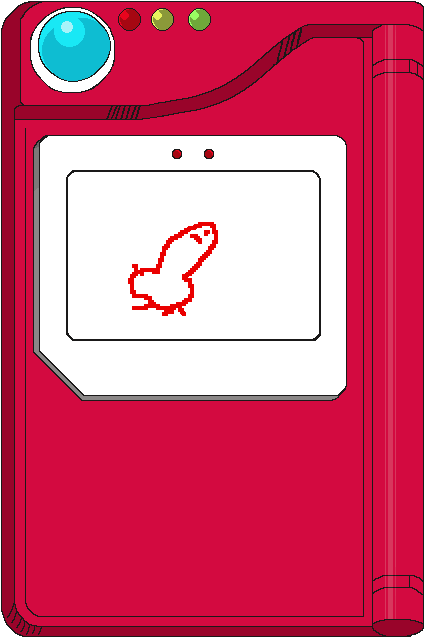
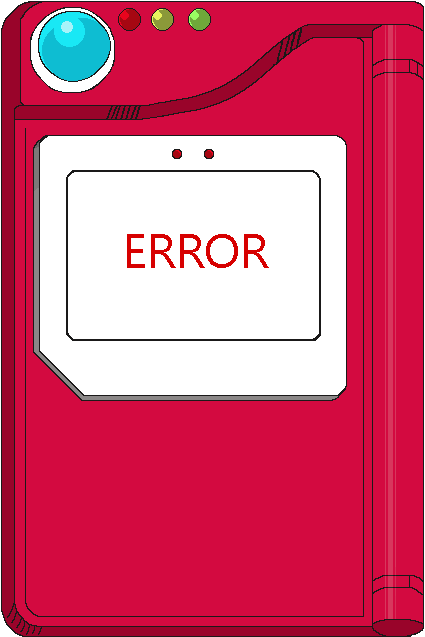
Começando a fazer tela de Informações do pokémon

Changed region(s): [[0.2753, 0.3281, 0.6424, 0.5071]]

diff --git a/js/script.js b/js/script.js
@@ -3,7 +3,7 @@ const pokemonNumber = document.querySelector('.pokemon__number');
 const pokemonImage = document.querySelector('.pokemon__image');
 const pokemonType = document.querySelector('.pokemon__type');
 const pokedex = document.querySelector('#pokedex');
-
+const pokedexInfo = document.querySelector('#pokedexInfo');
 
 
 const form = document.querySelector('.form');
@@ -14,14 +14,16 @@ const input = document.querySelector('.input__search');
 const buttonShiny = document.querySelector('#up');
 const buttonPrev = document.querySelector('#left');
 const buttonNext = document.querySelector('#right');
+const buttonInfo = document.querySelector('#down');
 const typeContainer = document.querySelector('#types');
 
 buttonShiny.addEventListener('click', buttonShiny); 
 
 
-
 let Shiny = 'front_default';
 let searchPokemon = 1;
+
+pokedexInfo.style.display = 'none';
 
 
 const fetchPokemon = async (pokemon) => {
@@ -48,6 +50,8 @@ const renderPokemon = async (pokemon) => {
     pokemonNumber.textContent = data.id;
     pokemonImage.src = data['sprites']['versions']['generation-v']['black-white']['animated'][Shiny];
     typeContainer.innerHTML = '';
+    input.value = '';
+
     data['types'].forEach((item, index) => {
       tipo = item['type']['name'];        
       let imageUrls = {
@@ -74,31 +78,35 @@ const renderPokemon = async (pokemon) => {
       img = document.createElement('img');
       img.classList.add('type_image');
       img.src = imageUrl;
+      
       typeContainer.appendChild(img);
 
     });
     
     
     searchPokemon = data.id;
-    document.getElementById("buttonShiny").disabled = false;  
+    document.getElementById('#up').disabled = false;  
     
   } else {
-    pokedex.src = "./images/pokedexERROR.png";
+    pokedex.src = "./images/pokedexError.png";
     pokemonImage.style.display = 'none';
     pokemonName.textContent = 'Not found';
     pokemonNumber.textContent = '';
+    pokedexInfo.style.display = 'none';
+
+    input.value = '';
     typeContainer.innerHTML = ''
-
-
-
+    
+    
+    
     
     var audio = new Audio("mixkit-metal-hammer-hit-833.wav");
     audio.play();
     audio.volume = 0.2;
-    searchPokemon = 0; 
-    document.getElementById("buttonShiny").disabled = true; 
     
   }
+  searchPokemon = 0; 
+  document.getElementById('#up').disabled = true; 
   input.value = '';
   
   
@@ -110,11 +118,6 @@ form.addEventListener('submit', (event) => {
 });
 
 renderPokemon(searchPokemon);
-
-
-
-
-
 
 buttonPrev.onclick = function() {
   var audio = new Audio("mixkit-mouse-click-close-1113.wav");
@@ -141,6 +144,16 @@ buttonShiny.onclick = function() {
   Shiny='front_default'
   } else{Shiny='front_shiny'}
   renderPokemon(searchPokemon);
+  
   }
 
-
+  buttonInfo.onclick = function() {
+    pokedexInfo.src = "./images/pokedexInfo.gif";
+    if (pokedexInfo.style.display == 'none'){
+    pokedexInfo.src = "./images/pokedexInfo.gif";  
+    pokedexInfo.style.display = 'inherit';
+    } else{
+    pokedexInfo.src = "./images/pokedexInfoReverso.gif";
+    setTimeout (function(){pokedexInfo.style.display = 'none';}, 700); 
+    }
+  }

diff --git a/css/style.css b/css/style.css
@@ -10,23 +10,18 @@
 
 body {
     text-align: center;
-    background: linear-gradient(to bottom, #c04cae,#fff);
-    min-height: 100vh;
+    background: linear-gradient(to bottom, #115b83,#fff);
+    min-height: 90%;
+    background-repeat: no-repeat;
 }
 
 
 main {
     display: inline-block;
     margin-top: 2%;
-    padding: 15px;
     position: relative;
 }
 
-.pokedex {
-    width: 100%;
-    max-width: 425;
-
-}
 
 .pokemon__image {
     position: absolute;
@@ -36,9 +31,25 @@ main {
     width: 50%;
     height: 17%;
     object-fit: contain;
-
+    
+}
+.pokedex {
+    width: 100%;
+    max-width: 425;
+    margin: 0;
+    padding: 0;
+    
 }
 
+.pokedexInfo {
+    width: 90%;
+    padding: 0;
+    margin: 0;
+    position: absolute;
+    left: 99%;
+    bottom:7%;
+    object-fit: contain;
+}
 .pokemon__data {
     position: absolute;
     font-weight: 600;
@@ -140,11 +151,9 @@ main {
     width: 22%;
     height: 65%;
     transform: translate(3%, 0);
-    display: flex;
     display: flex; 
     object-position: 5% 5%
 }
-
 .set {
     overflow: hidden;
     padding: 10px;
@@ -184,7 +193,6 @@ main {
     transition: all 0.25s;
     cursor: pointer;
   }
-
   .d-pad a {
     position: absolute;
     width: 36.3%;

diff --git a/index.html b/index.html
@@ -57,12 +57,16 @@
 
       
     </div>
-
+    
+    <img src="./images/pokedexInfo.gif" alt="pokedexInfo" class="pokedexInfo" id="pokedexInfo">
     <img src="./images/pokedex.png" alt="pokedex" class="pokedex" id="pokedex">
   </main>
-
+  <div>
+    
+  </div>
 </body>
 </html>
 
 
 
+  
